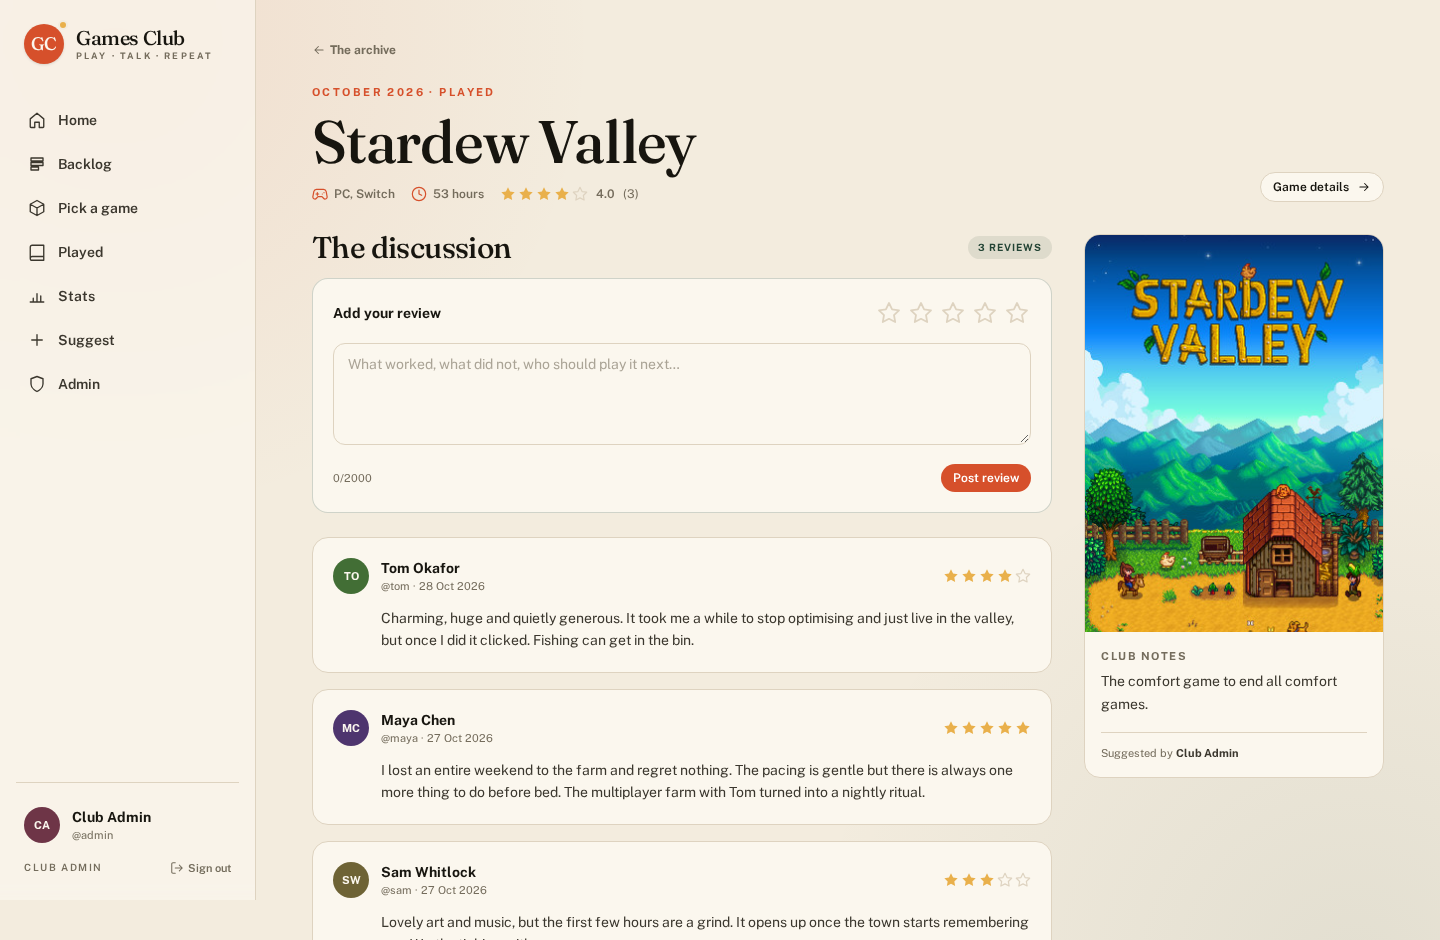
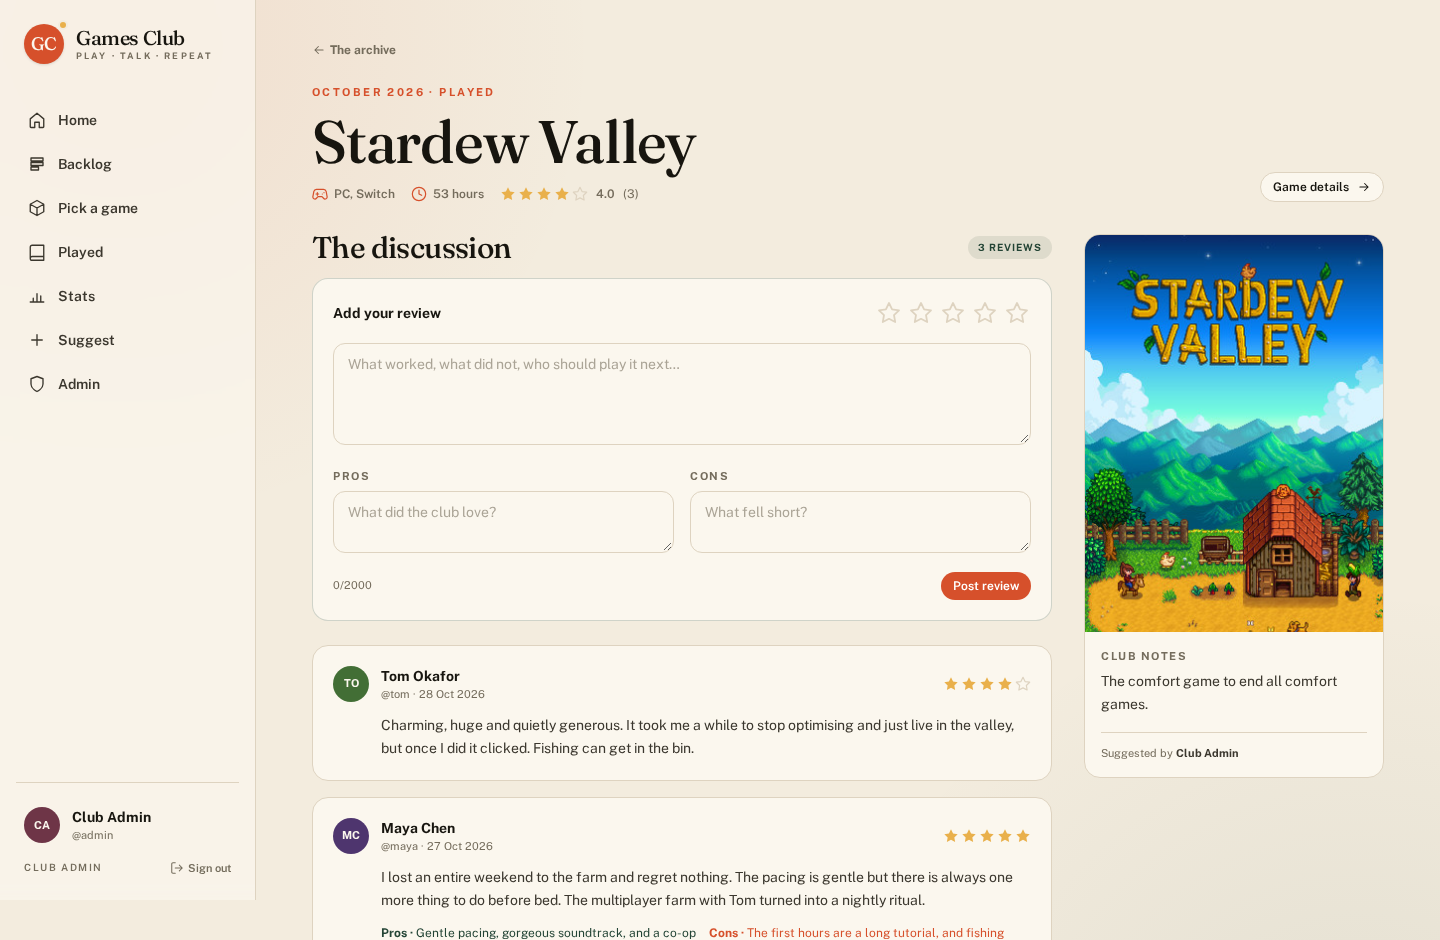
Add pros and cons to reviews

diff --git a/src/routes/_authed/month.$month.tsx b/src/routes/_authed/month.$month.tsx
@@ -95,6 +95,8 @@ function MonthPage() {
               <ReviewForm
                 assignmentId={data.id}
                 initialBody={data.myReview?.body ?? ""}
+                initialPros={data.myReview?.pros ?? ""}
+                initialCons={data.myReview?.cons ?? ""}
                 initialRating={data.myReview?.rating ?? 0}
                 onSaved={() => router.invalidate()}
               />
@@ -133,6 +135,22 @@ function MonthPage() {
                         <p className="mt-3 text-sm leading-relaxed whitespace-pre-line text-ink-soft">
                           {review.body}
                         </p>
+                        {review.pros || review.cons ? (
+                          <div className="mt-3 grid gap-1.5 sm:grid-cols-2">
+                            {review.pros ? (
+                              <p className="text-xs leading-relaxed text-forest">
+                                <span className="font-bold">Pros · </span>
+                                {review.pros}
+                              </p>
+                            ) : null}
+                            {review.cons ? (
+                              <p className="text-xs leading-relaxed text-clay">
+                                <span className="font-bold">Cons · </span>
+                                {review.cons}
+                              </p>
+                            ) : null}
+                          </div>
+                        ) : null}
                       </div>
                     </div>
                   </li>
@@ -179,16 +197,22 @@ function MonthPage() {
 function ReviewForm({
   assignmentId,
   initialBody,
+  initialPros,
+  initialCons,
   initialRating,
   onSaved,
 }: {
   assignmentId: number;
   initialBody: string;
+  initialPros: string;
+  initialCons: string;
   initialRating: number;
   onSaved: () => void;
 }) {
   const [rating, setRating] = useState(initialRating);
   const [body, setBody] = useState(initialBody);
+  const [pros, setPros] = useState(initialPros);
+  const [cons, setCons] = useState(initialCons);
   const [error, setError] = useState<string | null>(null);
   const [saved, setSaved] = useState(false);
   const [pending, setPending] = useState(false);
@@ -199,7 +223,9 @@ function ReviewForm({
     setSaved(false);
     setPending(true);
     try {
-      const result = await addReview({ data: { assignmentId, rating, body } });
+      const result = await addReview({
+        data: { assignmentId, rating, body, pros, cons },
+      });
       if ("error" in result) {
         setError(result.error ?? "Could not save your review.");
         return;
@@ -260,6 +286,30 @@ function ReviewForm({
           className="input resize-y"
         />
       </label>
+      <div className="mt-4 grid gap-4 sm:grid-cols-2">
+        <label className="block">
+          <span className="label">Pros</span>
+          <textarea
+            value={pros}
+            onChange={(event) => setPros(event.target.value)}
+            rows={2}
+            maxLength={500}
+            placeholder="What did the club love?"
+            className="input resize-y"
+          />
+        </label>
+        <label className="block">
+          <span className="label">Cons</span>
+          <textarea
+            value={cons}
+            onChange={(event) => setCons(event.target.value)}
+            rows={2}
+            maxLength={500}
+            placeholder="What fell short?"
+            className="input resize-y"
+          />
+        </label>
+      </div>
       <div className="mt-3 flex flex-wrap items-center justify-between gap-3">
         <p className="text-[11px] text-muted">{body.length}/2000</p>
         <div className="flex items-center gap-3">

diff --git a/src/server/club.ts b/src/server/club.ts
@@ -61,6 +61,8 @@ type ReviewRow = {
   id: number;
   rating: number;
   body: string;
+  pros: string | null;
+  cons: string | null;
   created_at: string;
   author_name: string;
   author_username: string;
@@ -97,6 +99,8 @@ function mapReview(row: ReviewRow): Review {
     id: row.id,
     rating: row.rating,
     body: row.body,
+    pros: row.pros,
+    cons: row.cons,
     createdAt: row.created_at,
     authorName: row.author_name,
     authorUsername: row.author_username,
@@ -106,7 +110,7 @@ function mapReview(row: ReviewRow): Review {
 function loadReviews(assignmentId: number): Review[] {
   const rows = getDb()
     .query(
-      `SELECT r.id, r.rating, r.body, r.created_at, u.name AS author_name, u.username AS author_username
+      `SELECT r.id, r.rating, r.body, r.pros, r.cons, r.created_at, u.name AS author_name, u.username AS author_username
        FROM reviews r
        JOIN users u ON u.id = r.user_id
        WHERE r.assignment_id = ?
@@ -765,6 +769,8 @@ export const addReview = createServerFn({ method: "POST" })
       assignmentId: Number(data.assignmentId),
       rating: data.rating,
       body: typeof data.body === "string" ? data.body : "",
+      pros: typeof data.pros === "string" ? data.pros : "",
+      cons: typeof data.cons === "string" ? data.cons : "",
     };
   })
   .handler(async ({ data }) => {
@@ -773,6 +779,8 @@ export const addReview = createServerFn({ method: "POST" })
       return { error: "That month does not exist." };
     const rating = cleanRating(data.rating);
     const body = cleanText(data.body, 2000);
+    const pros = cleanOptionalText(data.pros, 500);
+    const cons = cleanOptionalText(data.cons, 500);
     if (!rating) return { error: "Choose a rating from 1 to 5." };
     if (!body || body.length < 3)
       return { error: "Write a few thoughts about the game." };
@@ -789,11 +797,21 @@ export const addReview = createServerFn({ method: "POST" })
     }
 
     db.query(
-      `INSERT INTO reviews (assignment_id, user_id, rating, body, created_at)
-       VALUES (?, ?, ?, ?, ?)
+      `INSERT INTO reviews (assignment_id, user_id, rating, body, pros, cons, created_at)
+       VALUES (?, ?, ?, ?, ?, ?, ?)
        ON CONFLICT(assignment_id, user_id)
-       DO UPDATE SET rating = excluded.rating, body = excluded.body, created_at = excluded.created_at`,
-    ).run(assignment.id, user.id, rating, body, new Date().toISOString());
+       DO UPDATE SET rating = excluded.rating, body = excluded.body,
+                     pros = excluded.pros, cons = excluded.cons,
+                     created_at = excluded.created_at`,
+    ).run(
+      assignment.id,
+      user.id,
+      rating,
+      body,
+      pros,
+      cons,
+      new Date().toISOString(),
+    );
 
     return { ok: true as const };
   });

diff --git a/src/db/index.ts b/src/db/index.ts
@@ -54,6 +54,8 @@ CREATE TABLE IF NOT EXISTS reviews (
   user_id INTEGER NOT NULL REFERENCES users(id) ON DELETE CASCADE,
   rating INTEGER NOT NULL CHECK (rating BETWEEN 1 AND 5),
   body TEXT NOT NULL,
+  pros TEXT,
+  cons TEXT,
   created_at TEXT NOT NULL,
   UNIQUE(assignment_id, user_id)
 );
@@ -84,6 +86,8 @@ const COLUMN_UPGRADES: Array<[table: string, column: string, definition: string]
   ["games", "genres", "TEXT"],
   ["games", "description", "TEXT"],
   ["games", "metascore", "INTEGER"],
+  ["reviews", "pros", "TEXT"],
+  ["reviews", "cons", "TEXT"],
 ];
 
 function migrateColumns(db: Database): void {
@@ -154,7 +158,13 @@ type SeedGame = {
   genres?: string[];
   month?: number;
   votes?: number[];
-  reviews?: Array<{ user: number; rating: number; body: string }>;
+  reviews?: Array<{
+    user: number;
+    rating: number;
+    body: string;
+    pros?: string;
+    cons?: string;
+  }>;
 };
 
 const SEED_USERS = [
@@ -203,6 +213,8 @@ const SEED_GAMES: SeedGame[] = [
         user: 0,
         rating: 5,
         body: "I lost an entire weekend to the farm and regret nothing. The pacing is gentle but there is always one more thing to do before bed. The multiplayer farm with Tom turned into a nightly ritual.",
+        pros: "Gentle pacing, gorgeous soundtrack, and a co-op farm that became a nightly ritual.",
+        cons: "The first hours are a long tutorial, and fishing never stops feeling like a chore.",
       },
       {
         user: 1,
@@ -360,12 +372,14 @@ function seedDemo(db: Database): void {
         if (!userId) continue;
         const day = 26 + (review.user % 3);
         db.query(
-          "INSERT INTO reviews (assignment_id, user_id, rating, body, created_at) VALUES (?, ?, ?, ?, ?)",
+          "INSERT INTO reviews (assignment_id, user_id, rating, body, pros, cons, created_at) VALUES (?, ?, ?, ?, ?, ?, ?)",
         ).run(
           assignmentId,
           userId,
           review.rating,
           review.body,
+          review.pros ?? null,
+          review.cons ?? null,
           `${month}-${day}T19:00:00.000Z`,
         );
       }

diff --git a/src/routes/_authed/game.$gameId.tsx b/src/routes/_authed/game.$gameId.tsx
@@ -228,6 +228,22 @@ function GamePage() {
                     <p className="mt-2 line-clamp-3 text-sm leading-relaxed text-ink-soft">
                       {review.body}
                     </p>
+                    {review.pros || review.cons ? (
+                      <div className="mt-2 grid gap-1 sm:grid-cols-2">
+                        {review.pros ? (
+                          <p className="text-[11px] leading-relaxed text-forest">
+                            <span className="font-bold">Pros · </span>
+                            {review.pros}
+                          </p>
+                        ) : null}
+                        {review.cons ? (
+                          <p className="text-[11px] leading-relaxed text-clay">
+                            <span className="font-bold">Cons · </span>
+                            {review.cons}
+                          </p>
+                        ) : null}
+                      </div>
+                    ) : null}
                     <p className="mt-2 text-[10px] text-muted">
                       {formatDate(review.createdAt)}
                     </p>

diff --git a/e2e/club.spec.ts b/e2e/club.spec.ts
@@ -147,11 +147,20 @@ test("an admin can open a past month and post a review", async ({ page }) => {
   await page
     .getByPlaceholder("What worked, what did not, who should play it next…")
     .fill("E2E review: the farm life remains undefeated.");
+  await page.getByLabel("Pros").fill("E2E pros: cozy and replayable.");
+  await page.getByLabel("Cons").fill("E2E cons: fishing is a chore.");
   await page.getByRole("button", { name: "Post review" }).click();
 
   await expect(page.getByText("Saved")).toBeVisible();
   await expect(
     page.getByRole("list").getByText("E2E review: the farm life remains undefeated."),
+  ).toBeVisible();
+  // The pros and cons were saved and are shown on the review card.
+  await expect(
+    page.getByRole("list").getByText("E2E pros: cozy and replayable."),
+  ).toBeVisible();
+  await expect(
+    page.getByRole("list").getByText("E2E cons: fishing is a chore."),
   ).toBeVisible();
 
   // Admins can correct a past month's game details from its page.

diff --git a/src/lib/types.ts b/src/lib/types.ts
@@ -29,6 +29,8 @@ export type Review = {
   id: number;
   rating: number;
   body: string;
+  pros: string | null;
+  cons: string | null;
   createdAt: string;
   authorName: string;
   authorUsername: string;
